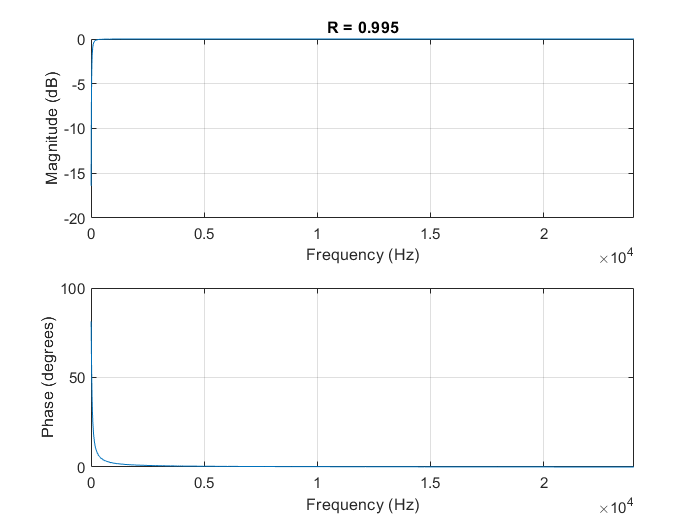
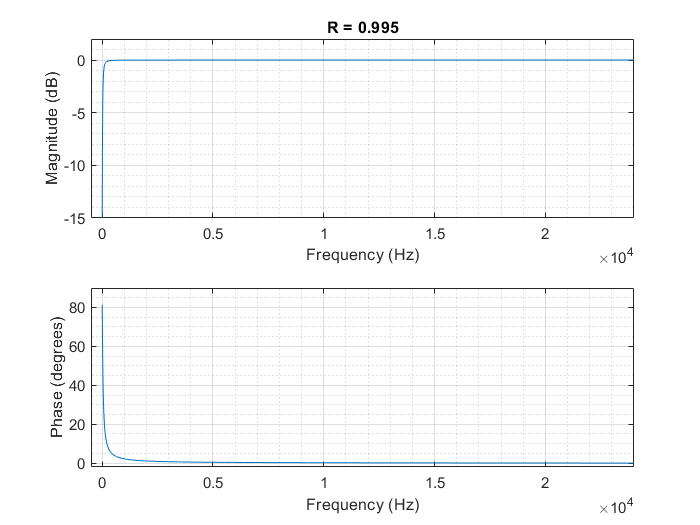
Image resizing
Updated images to shrink .pdf size

diff --git a/Code/tests/sub-components/NoiseBurst_test.m b/Code/tests/sub-components/NoiseBurst_test.m
@@ -28,7 +28,7 @@ noiseBurst = NoiseBurst(period_samp, T60);
 
 %Processing loop
 for n = 1:numSamples
-    if(mod(n, 100) == 0)
+    if(mod(n, 1000) == 0)
         fprintf("n = %i/%i\n", n, numSamples);
     end
     noiseBurst.consumeControlSignal(f_c);
@@ -38,6 +38,11 @@ end
 figure;
 plot(y1);
 title("Noise Burst Test - Constant Rate");
+ylabel("Amplitude");
+xlabel("Time-index (n)");
+grid on;
+grid minor;
+xlim([-500 27000])
 
 %Rate changing test
 a = 1/.09;
@@ -47,7 +52,7 @@ f_c = 1000*(-a*(x -.3).^2 + 1);
 
 %Processing loop
 for n = 1:numSamples
-    if(mod(n, 100) == 0)
+    if(mod(n, 1000) == 0)
         fprintf("n = %i/%i\n", n, numSamples);
     end
     noiseBurst.consumeControlSignal(f_c(n));
@@ -57,6 +62,8 @@ end
 figure;
 plot(y2);
 title("Noise Burst Test - Rate Changing");
+ylabel("Amplitude");
+xlabel("Time-index (n)");
 
 windowLength = 12*10^-3*Fs; %12 ms window
 % window = hamming(windowLength);

diff --git a/Code/tests/sub-components/CSG_wound_test_1.m b/Code/tests/sub-components/CSG_wound_test_1.m
@@ -84,7 +84,7 @@ figure;
 spectrogram(y2, window, overlap, N, Fs, "yaxis");  
 ylim([0 y_upperLim]);
 % title('Wound CSG Harmonics Branch Output Spectrogram')
-yline(f_c(1)/1000*[1 2 3 4 5 6], ':r');
+yline(f_c(1)/1000*[1 2 3 4 5 6], '-.r');
 
 %*****Longitudinal + Harmonics Branch Test*****
 csg_wound = CSG_wound(stringParams, stringModeFilterSpec, noiseSource, harmonicAccentuator);
@@ -110,5 +110,5 @@ spectrogram(y3, window, overlap, N, Fs, "yaxis");
 ylim([0 y_upperLim]);
 % title('Wound CSG Combined Branches Output Spectrogram')
 yline([stringModeFilterSpec.poles.F(1), stringModeFilterSpec.poles.F(3)]/1000, '--k');
-yline(f_c(1)/1000*[1 2 3 4 5 6], ':r');
-yline([f_c(1), stringModeFilterSpec.poles.F(1), stringModeFilterSpec.poles.F(3)]/1000, ':r');
+yline(f_c(1)/1000*[1 2 3 4 5 6], '-.r');
+yline([f_c(1), stringModeFilterSpec.poles.F(1), stringModeFilterSpec.poles.F(3)]/1000, '-.r');

diff --git a/Code/src/AnalyzeSoundTwoChannel.m b/Code/src/AnalyzeSoundTwoChannel.m
@@ -28,7 +28,7 @@ legend(labels);
 
 y_norm = [y(:, 1)/max(abs(y(:, 1))), y(:, 2)/max(abs(y(:, 2)))];
 figure;
-subplot(2, 1, 1);
+% subplot(2, 1, 1);
 plot(t, abs(y_norm(:, 1)));
 % plot(t, y_norm(:, 2));
 title(dataName + " " + labels{1});
@@ -38,7 +38,7 @@ xlim([0 t(end)]);
 % ylim(.75*[-1 1])
 % subplot(2, 1, 2);
 % plot(t, abs(y_norm(:, 2)));
-plot(t, -y_norm(:, 2));
+plot(t, mag2db(-y_norm(:, 2)));
 title(dataName + " " + labels{2});
 xlabel("Sec");
 ylabel("Amplitude");

diff --git a/Code/tests/sub-components/LoopOnePole_test_2.m b/Code/tests/sub-components/LoopOnePole_test_2.m
@@ -19,7 +19,8 @@ close all;
 % decrement = (L_min - L_max) / (numSamples - 1);
 % L = L_max:decrement:L_min;
 
-fretNumbers = [18 19 20 21 22 23 24];
+% fretNumbers = [18 19 20 21 22 23 24];
+fretNumbers = [0:3:15 19];
 L = fretNumberToRelativeLength(fretNumbers);
 
 stringParams = [SystemParams.e_string_params, SystemParams.B_string_params,...

diff --git a/Code/tests/sub-components/DCBlocker_test.m b/Code/tests/sub-components/DCBlocker_test.m
@@ -14,3 +14,13 @@ title(sprintf("R = %.3f", R));
 % title("Resonator Frequency Response - update_f_c() test", 'interpreter', 'none');
 % grid on;
 % grid minor;
+
+subplot(2, 1, 1);
+xlim([-500 24000]);
+ylim([-15 2]);
+grid on; grid minor;
+
+subplot(2, 1, 2);
+xlim([-500 24000]);
+ylim([-2 90]);
+grid on; grid minor;

diff --git a/Code/tests/sub-components/ResoTanh_test.m b/Code/tests/sub-components/ResoTanh_test.m
@@ -5,7 +5,7 @@
 %amplitude scaling from teh CSG_Wound in total explains the slight
 %differences in the output spectrograms from a noise standpoint
 
-close all;
+% close all;
 clear;
 
 dbstop if error;

diff --git a/Code/tests/sub-components/ImpulseTrain_test.m b/Code/tests/sub-components/ImpulseTrain_test.m
@@ -56,6 +56,7 @@ end
 subplot(5, 1, 3);
 stem(0:numSamples-1, y);
 title('Rate increases at sample 15');
+ylabel("Linear Amplitude");
 
 %********Test for a transition to stop********
 tickLimit = 5;

diff --git a/Code/tests/sub-components/NoisePulseTrain_test.m b/Code/tests/sub-components/NoisePulseTrain_test.m
@@ -1,7 +1,7 @@
 %Script to test the NoisePulseTrain class and ensure correct operation
 
-% clear all;
-% close all;
+clear all;
+close all;
 
 %System parameters
 Fs = SystemParams.audioRate;

diff --git a/Code/tests/sub-components/ResonatorFilter_test.m b/Code/tests/sub-components/ResonatorFilter_test.m
@@ -1,5 +1,5 @@
 clear;
-close all;
+%close all;
 %addpath("..\src");
 
 Fs = 48000;
